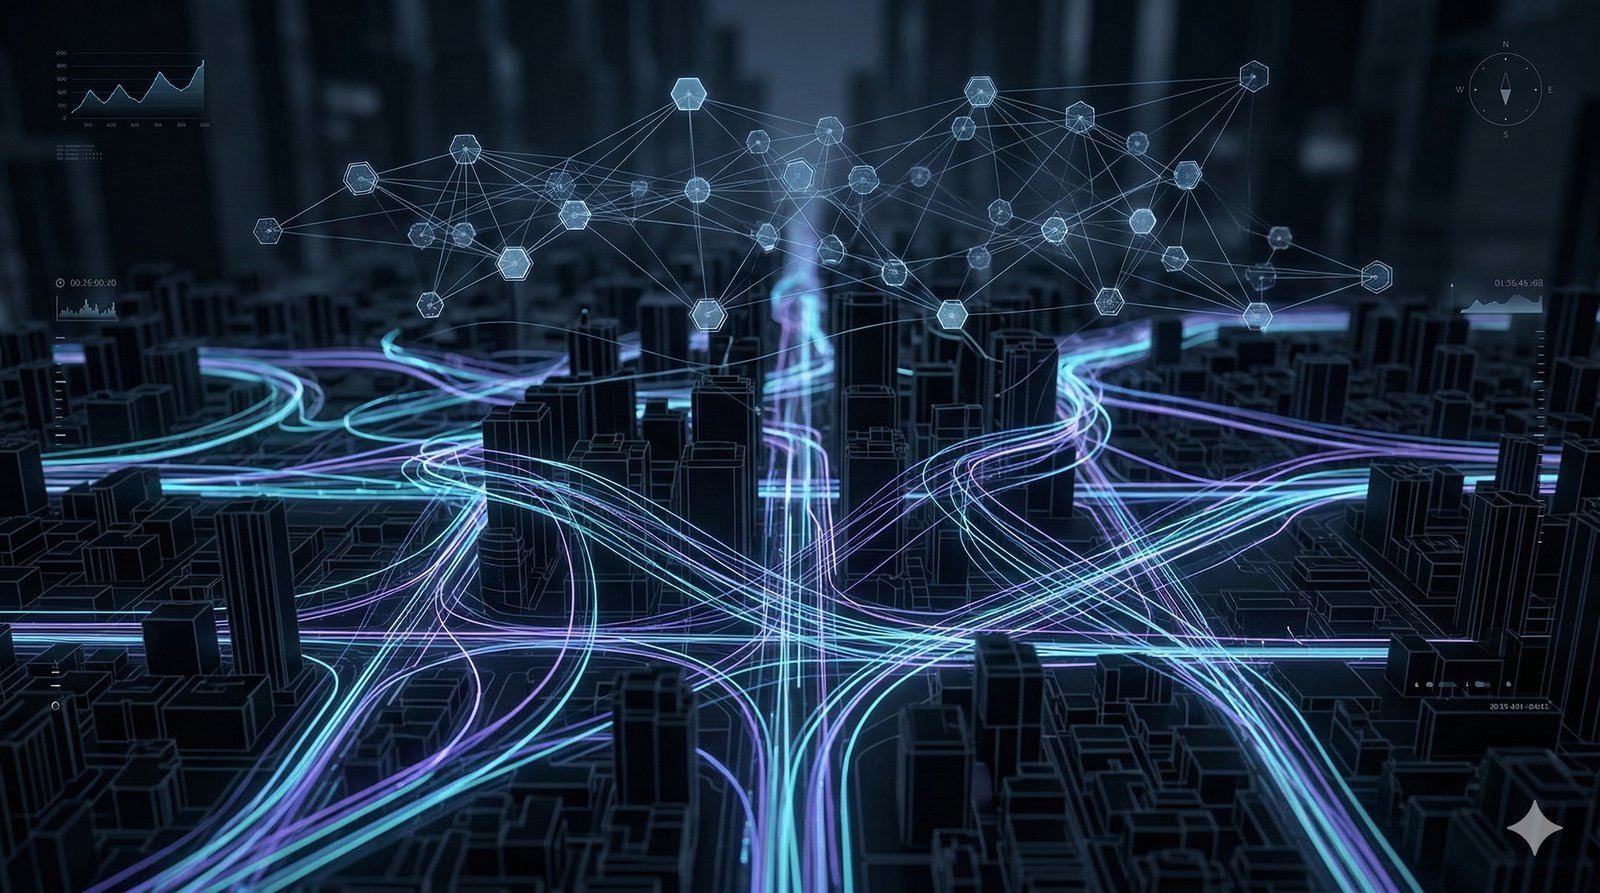
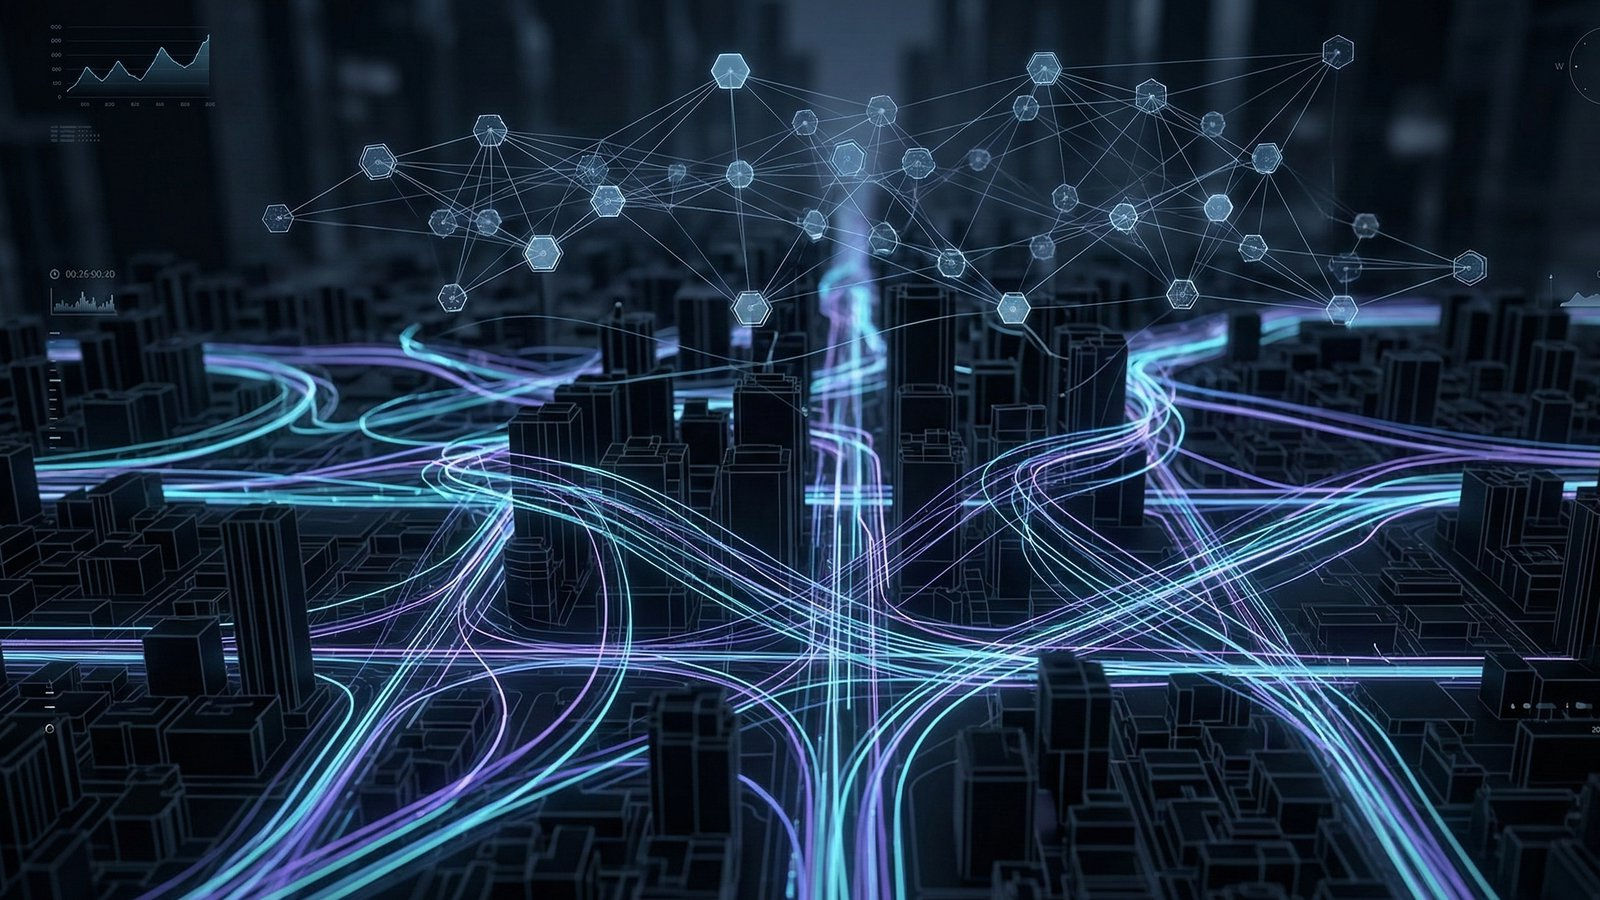
Unify tags and interests, crop image watermarks, drop dead config
- Replace 40+ single-paper tags with one shared vocabulary that matches the
  homepage interests (trajectory modeling, spatiotemporal AI, ITS, urban
  computing, LLMs, graph learning, data fusion, physics-based modeling), so
  tag pages actually group related work. Interests no longer list a job title.
- Crop the generator watermark out of both project images.
- Remove the unused Netlify integration (its _headers/_redirects do nothing on
  GitHub Pages) and enable Hugo's HTML alias redirects instead; remove the
  never-triggered BibTeX import workflow and a devcontainer whose image path is
  invalid; build CI on Node 22 instead of end-of-life Node 20.

diff --git a/content/publications/2025-liu-a-generalizable-semantic/index.md b/content/publications/2025-liu-a-generalizable-semantic/index.md
@@ -18,11 +18,11 @@ summary: A heterogeneous graph framework (HetSemNet) that fuses LLM-derived POI
   semantics with road topology, generalizing across cities on road type
   classification.
 tags:
-  - Road Network Representation
-  - Heterogeneous Graphs
+  - Graph Learning
   - Large Language Models
-  - Graph Neural Networks
-  - Representation Learning
+  - Urban Computing
+  - Data Fusion
+  - Intelligent Transportation Systems
 featured: true
 image:
   caption: "Framework of the proposed SaRNSAGE: raw road-network and POI text

diff --git a/content/publications/2025-liu-SDA/index.md b/content/publications/2025-liu-SDA/index.md
@@ -14,13 +14,9 @@ summary: A model-agnostic protocol that decomposes trajectory forecasting
   inputs into Past, Current, and Prior to quantify each one's standalone and
   marginal contribution.
 tags:
-  - Trajectory forecasting
-  - Sequential decomposition
-  - Input attribution
-  - Temporal dependence
-  - Goal-conditioned prediction
-  - Intelligent transportation systems
-  - Model interpretability
+  - Trajectory Modeling
+  - Spatiotemporal AI
+  - Intelligent Transportation Systems
 featured: true
 hugoblox:
   ids:

diff --git a/content/publications/2025-liu-cross-taxonomy-label-alignment/index.md b/content/publications/2025-liu-cross-taxonomy-label-alignment/index.md
@@ -18,10 +18,11 @@ summary: LLM prompt-based pseudo-labels plus road-network structural
   embeddings align labels across transportation taxonomies, even with only 1%
   labeled data.
 tags:
-  - Cross-Taxonomy Label Alignment
-  - Transportation Data Integration
   - Large Language Models
-  - Semi-Supervised Learning
+  - Graph Learning
+  - Data Fusion
+  - Urban Computing
+  - Intelligent Transportation Systems
 featured: true
 image:
   caption: "Framework overview: semantic features (LLM-generated pseudo-labels

diff --git a/content/publications/2025-liu-enhanced-trajectory-reconstruction/index.md b/content/publications/2025-liu-enhanced-trajectory-reconstruction/index.md
@@ -46,11 +46,9 @@ links:
     url: paper.pdf
 featured: true
 tags:
-  - Trajectory reconstruction
-  - Transformer
-  - Chunked processing
-  - Heuristic-informed
-  - Parallel computing
+  - Trajectory Modeling
+  - Spatiotemporal AI
+  - Intelligent Transportation Systems
 summary: ProChunkFormer, a progressive chunked transformer that reconstructs
   trajectories from sparse, noisy GPS data, matching an autoregressive
   transformer's accuracy while running faster.

diff --git a/content/publications/2022-zeng-analytical-modeling-of/index.md b/content/publications/2022-zeng-analytical-modeling-of/index.md
@@ -18,10 +18,7 @@ abstract: "The major topology for wireless power transfer is resonant converters
 summary: A frequency-domain analytical model for resonant converters in
   continuous current mode (CCM) operation for wireless power transfer.
 tags:
-  - Wireless Power Transfer
-  - Continuous Current Mode (CCM)
-  - Analytical Modelling
-  - Frequency Domain
+  - Physics-Based Modeling
 featured: false
 ---
 

diff --git a/content/publications/2021-pähtz-unified-model-of/index.md b/content/publications/2021-pähtz-unified-model-of/index.md
@@ -21,10 +21,7 @@ summary: A deterministic model unifying the threshold and rate of nonsuspended
   sediment transport across subaqueous bedload, windblown sand, and windblown
   snow.
 tags:
-  - Sediment Transport
-  - Aeolian Transport
-  - Bedload
-  - Discrete Element Method
+  - Physics-Based Modeling
 links:
   - type: pdf
     url: paper.pdf
